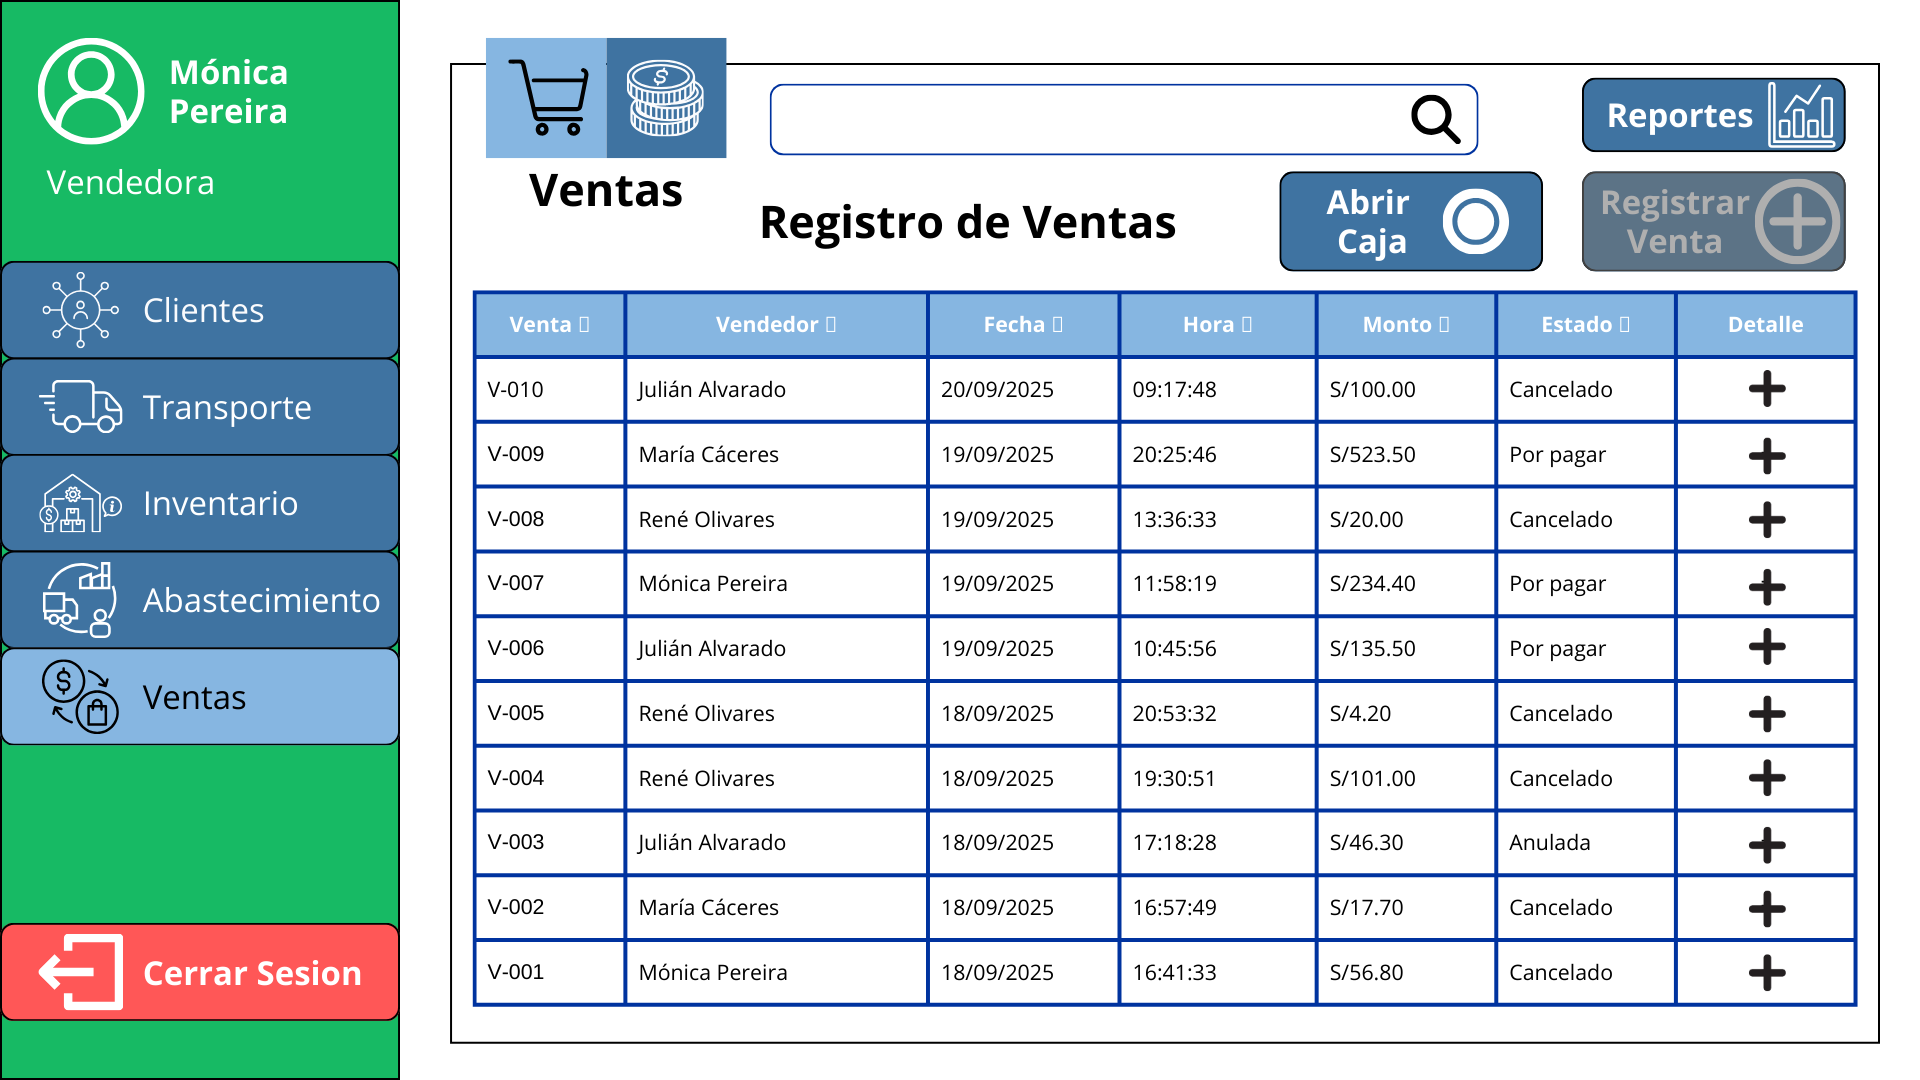
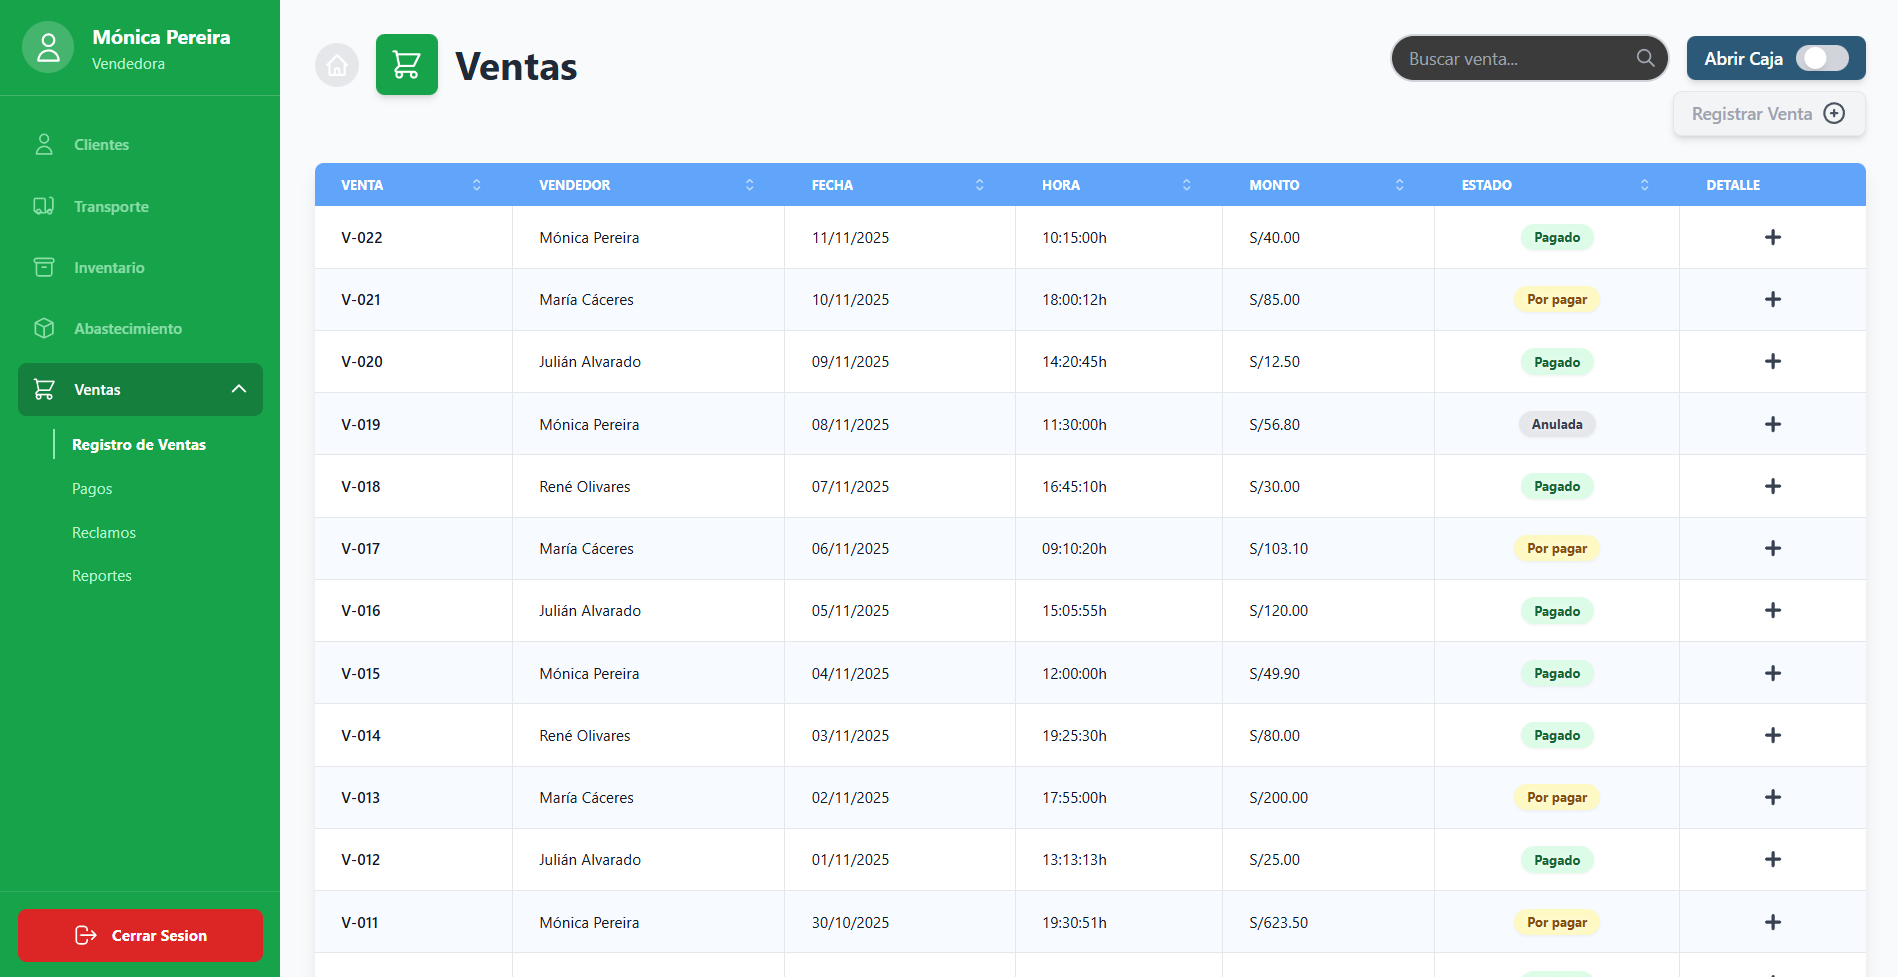
actualizacion_pantallas

diff --git a/3/3.5/3.5.md b/3/3.5/3.5.md
@@ -1,6 +1,6 @@
 # 3.5. Módulo 5: Ventas
 
-Descripcion: 
+### **Descripcion:** 
 
 El módulo de Ventas se encarga de gestionar el proceso de cierre del acuerdo de adquisición de un producto dentro de la ferretería, registrando transacciones, acuerdos y generando comprobantes de pago y reportes de venta. Su propósito principal es automatizar, controlar y registrar las ventas y pagos.
 
@@ -8,24 +8,43 @@ El módulo de Ventas se encarga de gestionar el proceso de cierre del acuerdo de
 
 | Requerimiento | Nombre |
 |---------------|--------|
-| R-501 | Registrar Venta al Contado |
-| R-502 | Registrar Venta a Crédito |
-| R-503 | Registrar Pago |
-| R-504 | Devolución de Producto |
-| R-505 | Anular Venta |
-| R-506 | Cierre de Caja Diario |
+| R-501 | Visualizar Ventas |
+| R-502 | Registrar Venta al Contado |
+| R-503 | Registrar Venta a Crédito |
+| R-504 | Visualizar Pagos |
+| R-505 | Registrar Pago |
+| R-506 | Visualizar Reclamos |
+| R-507 | Registrar Devolución de Producto |
+| R-508 | Registrar Cambio de Producto |
+| R-509 | Registrar Anulación de Venta |
+| R-510 | Apertura/Cierre de Caja Diario |
+| R-511 | Visualización de Reportes |
+
 
 ---
-## **Panel Principal**
+
+## **Caso de Uso R-501: Visualizar Ventas**
+
+| ID | R-501 |
+|----|-------|
+| **Actor(es)** | Vendedor  |
+| **Objetivo**  | Consultar las ventas registradas en el sistema. |
+| **Disparador o evento inicial** | El vendedor desea revisar las ventas realizadas. |
+| **Precondiciones** | 1. Existencia de ventas registradas.<br>2. Usuario autenticado en el sistema. |
+| **Flujo Principal** | 1. El vendedor accede al módulo de ventas.<br>2. El sistema muestra la lista de ventas.<br>3. El vendedor puede visualizar detalles individuales de cada venta. |
+| **Postcondiciones** | Información de ventas mostrada correctamente en pantalla. |
+| **Excepciones** | 1. No existen ventas registradas.<br>2. Error en la conexión a la base de datos.  |
+
+
+### Panel Principal - Registro de Ventas
 
 ![Panel](pantallas_ventas/panel_principal.png)
 
-
 ---
 
-## **Caso de Uso R-501: Registrar Venta al Contado**
+## **Caso de Uso R-502: Registrar Venta al Contado**
 
-| ID | R-501 |
+| ID | R-502 |
 |----|-------|
 | **Actor(es)** | Vendedor |
 | **Objetivo** | Registrar una venta pagada en el momento. |
@@ -33,22 +52,22 @@ El módulo de Ventas se encarga de gestionar el proceso de cierre del acuerdo de
 | **Precondiciones** | 1. Cliente identificado (o venta rápida). <br> 2. Productos existentes y disponibles. |
 | **Flujo Principal** | 1. El vendedor abre una nueva venta. <br> 2. Selecciona productos y descuentos disponibles. <br> 3. Registra tipo de pago al contado. <br> 4. Programa despacho de ser necesario. <br> 5. Emite comprobante y cierra la venta. |
 | **Postcondiciones** | Venta registrada, comprobante emitido y stock actualizado. |
-| **Excepciones** | 1. Cliente cancela la compra. <br> 2. Producto no disponible. |
+| **Excepciones** | 1. Cliente paga lo acordado por la compra. <br> 2. Producto no disponible. |
 
-![Nueva Venta](pantallas_ventas/nueva_venta_contado_corregido.png)
+![Nueva Venta](pantallas_ventas/nueva_venta_contado.png)
 
-![Venta cancelada](pantallas_ventas/detalle_venta_cancelada.png)
+![Venta cancelada](pantallas_ventas/detalle_venta_pagada.png)
 
 ---
 
-## **Caso de Uso R-502: Registrar Venta a Crédito**
+## **Caso de Uso R-503: Registrar Venta a Crédito**
 
-| ID | R-502 |
+| ID | R-503 |
 |----|-------|
 | **Actor(es)** | Vendedor |
 | **Objetivo** | Registrar una venta con pago en cuotas. |
 | **Disparador o evento inicial** | El cliente solicita pagar a crédito. |
-| **Precondiciones** | 1. Cliente identificado sin deudas pendientes. <br> 2. Productos existentes y disponibles. |
+| **Precondiciones** | 1. Cliente identificado sin deudas pendientes. <br> 2. Productos existentes y disponibles o para solicitar a proveedor. |
 | **Flujo Principal** | 1. El vendedor abre una nueva venta. <br> 2. Selecciona productos y descuentos disponibles. <br> 3. Registra tipo de pago a crédito. <br> 4. Programa despacho de ser necesario. <br> 5. Genera cronograma de pagos y emite primer comprobante. |
 | **Postcondiciones** | Venta registrada con cronograma de pagos y comprobante emitido. |
 | **Excepciones** | 1. Cliente con deudas pendientes. <br> 2. Producto no disponible. |
@@ -61,9 +80,33 @@ El módulo de Ventas se encarga de gestionar el proceso de cierre del acuerdo de
 
 ---
 
-## **Caso de Uso R-503: Registrar Pago**
+## **Caso de Uso R-504: Visualizar Pagos**
 
-| ID | R-503 |
+| ID | R-504 |
+|----|-------|
+| **Actor(es)** | Vendedor / Administrador  |
+| **Objetivo** | Consultar los pagos registrados asociados a las ventas realizadas.  |
+| **Disparador o evento inicial** | El usuario solicita revisar los pagos efectuados por los clientes. |
+| **Precondiciones** | 1. Existencia de ventas y pagos registrados en el sistema.<br>2. Usuario autenticado con permisos para visualizar pagos. |
+| **Flujo Principal** | 1. El usuario accede al módulo de pagos.<br>2. El sistema muestra la lista de pagos registrados.<br>3. El usuario puede visualizar el detalle de cada pago, su estado y método utilizado. |
+| **Postcondiciones** | Pagos visualizados correctamente, con información actualizada.  |
+| **Excepciones** | 1. No existen pagos registrados.<br>2. Error de conexión o permisos insuficientes. |
+
+
+![pagos realizados](pantallas_ventas/pagos_realizados.png)
+
+**Nota:** Cuando la caja está abierta, permite ingresar pagos, indicando el color verde en algunos de los botones de la columna "Acción"
+![pagos pendientes ab](pantallas_ventas/pagos_pendientes_caja_ab.png)
+
+
+**Nota:** Cuando la caja está cerrada, no permite ingresar pagos, indicando el color gris en todos los botones de la columna "Acción"
+![pagos pendientes ce](pantallas_ventas/pagos_pendientes_caja_ce.png)
+
+---
+
+## **Caso de Uso R-505: Registrar Pago**
+
+| ID | R-505 |
 |----|-------|
 | **Actor(es)** | Vendedor |
 | **Objetivo** | Permitir registrar pagos de ventas al contado o abonos de ventas a crédito. |
@@ -77,24 +120,48 @@ El módulo de Ventas se encarga de gestionar el proceso de cierre del acuerdo de
 
 ![cronog pago](pantallas_ventas/cronograma_pagos.png)
 
-![reg pago](pantallas_ventas/registrar_pago.png)
 
-![pago regis](pantallas_ventas/pago_registrado.png)
+**Nota:** Aparece la misma pantalla cuando se intenta registrar un pago desde la ventana de "Pagos"
+![reg pago](pantallas_ventas/registrar_pago_cronograma.png)
+
+![pago regis](pantallas_ventas/pago_registrado_cronograma.png)
 
 
 ---
 
-## **Caso de Uso R-504: Devolución de producto**
+## **Caso de Uso R-506: Visualización de Reclamos**
 
-| ID | R-504 |
+| ID | R-506 |
+|----|-------|
+| **Actor(es)** | Vendedor / Administrador |
+| **Objetivo** | Consultar los reclamos registrados por los clientes. |
+| **Disparador o evento inicial** | El usuario solicita revisar reclamos existentes. |
+| **Precondiciones** | 1. Existencia de reclamos en el sistema.<br>2. Usuario autenticado con permisos adecuados. |
+| **Flujo Principal** | 1. El usuario accede al módulo de reclamos.<br>2. El sistema muestra los reclamos existentes.<br>3. El usuario visualiza los detalles del reclamo. |
+| **Postcondiciones** | Reclamos visualizados exitosamente. |
+| **Excepciones** | 1. No existen reclamos registrados.<br>2. Error en la conexión o permisos insuficientes. |
+
+![devoluciones](pantallas_ventas/reclamo_devoluciones.png)
+
+![cambios prod](pantallas_ventas/reclamo_cambio.png)
+
+![anulaciones](pantallas_ventas/reclamo_anulaciones.png)
+
+
+---
+
+## **Caso de Uso R-507: Registrar Devolución de Producto**
+
+| ID | R-507 |
 |----|-------|
 | **Actor(es)** | Vendedor |
-| **Objetivo** | Registrar la devolución de productos y emitir la nota de crédito correspondiente. |
-| **Disparador o evento inicial** | El cliente solicita devolución de productos. |
-| **Precondiciones** | 1. Existe una venta previa. <br> 2. El producto está en condiciones aceptadas por la tienda. |
-| **Flujo Principal** | 1. El vendedor abre “Devolución”. <br> 2. Selecciona productos a devolver. <br> 3. El sistema calcula el monto y genera nota de crédito. <br> 4. Reingresa stock si aplica. <br> 5. Cierra la devolución. |
-| **Postcondiciones** | Nota de crédito emitida y stock actualizado. |
-| **Excepciones** | 1. Producto no cumple condiciones de devolución. <br> 2. Venta original no encontrada. |
+| **Objetivo** | Registrar la devolución de un producto asociado a una venta. |
+| **Disparador o evento inicial** | El cliente solicita devolver un producto adquirido. |
+| **Precondiciones** | 1. Venta registrada previamente.<br>2. Producto elegible para devolución.<br>3. Reclamo asociado (si aplica). |
+| **Flujo Principal** | 1. El vendedor localiza la venta correspondiente.<br>2. Selecciona el producto a devolver.<br>3. Registra el motivo de devolución.<br>4. El sistema actualiza el stock y genera comprobante de devolución. |
+| **Postcondiciones** | Devolución registrada, stock actualizado y comprobante emitido. |
+| **Excepciones** | 1. Producto fuera del plazo de devolución.<br>2. Venta no encontrada.<br>3. Error al actualizar el stock. |
+
 
 ![conf devol](pantallas_ventas/confirmacion_devolucion.png)
 
@@ -106,15 +173,33 @@ El módulo de Ventas se encarga de gestionar el proceso de cierre del acuerdo de
 
 ---
 
-## **Caso de Uso R-505: Anular Venta**
+## **Caso de Uso R-508: Registrar Cambio de Producto**
+
+| ID | R-508 |
+|----|-------|
+| **Actor(es)** | Vendedor |
+| **Objetivo** | Registrar el cambio de un producto por otro dentro de una venta previa. |
+| **Disparador o evento inicial** | El cliente solicita cambiar un producto adquirido. |
+| **Precondiciones** | 1. Venta y producto registrados.<br>2. Producto nuevo disponible en stock.<br>3. Motivo de cambio identificado. |
+| **Flujo Principal** | 1. El vendedor busca la venta y producto original.<br>2. Registra el motivo del cambio.<br>3. Selecciona el nuevo producto a entregar.<br>4. El sistema actualiza la información y emite comprobante. |
+| **Postcondiciones** | Cambio registrado, stock ajustado y comprobante actualizado. |
+| **Excepciones** | 1. Producto nuevo sin disponibilidad.<br>2. Venta no válida o fuera del plazo permitido. |
+
+![cambio](pantallas_ventas/cambio_producto.png)
+
+![cambio regis](pantallas_ventas/cambio_registrado.png)
+
+---
+
+## **Caso de Uso R-509: Registrar Anulación de Venta**
 
 | ID | R-505 |
 |----|-------|
-| **Actor(es)** | Administrador |
+| **Actor(es)** | Vendedor |
 | **Objetivo** | Permitir anular una venta bajo condiciones definidas y revertir sus efectos. |
 | **Disparador o evento inicial** | Solicitud de anulación por error o política. |
 | **Precondiciones** | 1. Venta en el mismo día o según política. <br> 2. Comprobante no enviado a SUNAT o con proceso de baja permitido. |
-| **Flujo Principal** | 1. El administrador busca la venta. <br> 2. Revisa motivo y confirma anulación. <br> 3. Revierte stock y marca comprobante como anulado o dado de baja. |
+| **Flujo Principal** | 1. El vendedor busca la venta. <br> 2. Revisa motivo y confirma anulación. <br> 3. Revierte stock y marca comprobante como anulado o dado de baja. |
 | **Postcondiciones** | Venta anulada, comprobante marcado como inválido y stock revertido. |
 | **Excepciones** | 1. Venta fuera del plazo de anulación. <br> 2. Comprobante ya validado por SUNAT. |
 
@@ -124,7 +209,7 @@ El módulo de Ventas se encarga de gestionar el proceso de cierre del acuerdo de
 
 ---
 
-## **Caso de Uso R-506: Apertura/Cierre de Caja Diario**
+## **Caso de Uso R-510: Apertura/Cierre de Caja Diario**
 
 | ID | R-506 |
 |----|-------|
@@ -146,6 +231,23 @@ El módulo de Ventas se encarga de gestionar el proceso de cierre del acuerdo de
 
 ![caja cerrada](pantallas_ventas/caja_cerrada.png)
 
+---
+
+## **Caso de Uso R-511: Visualización de Reportes**
+
+| ID | R-511 |
+|----|-------|
+| **Actor(es)** | Administrador / Vendedor |
+| **Objetivo** | Generar y visualizar reportes de ventas, pagos y reclamos. |
+| **Disparador o evento inicial** | El usuario solicita generar un reporte. |
+| **Precondiciones** | 1. Existencia de datos registrados (ventas, pagos, reclamos).<br>2. Usuario autenticado con permisos de acceso a reportes. |
+| **Flujo Principal** | 1. El usuario accede al módulo de reportes.<br>2. Selecciona periodo de los datos.<br>3. El sistema genera y muestra el reporte. |
+| **Postcondiciones** | Reporte generado correctamente. |
+| **Excepciones** | 1. No hay datos para generar el reporte.<br>2. Error en la generación o formato del reporte. |
+
+![reportes 1](pantallas_ventas/reporte_ventas.png)
+
+![reportes 2](pantallas_ventas/reporte_ventas_2.png)
 ---
 
 
